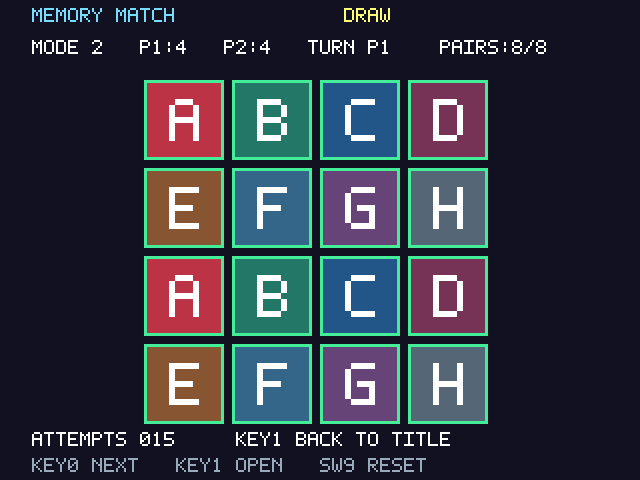
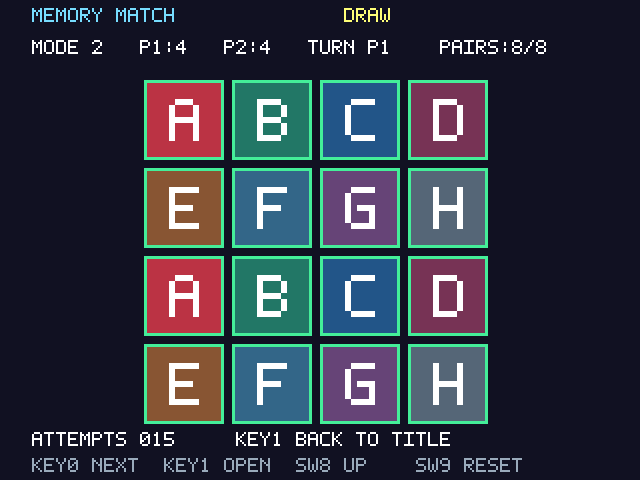
Show SW8 direction as UP or DOWN on screen
The controls line now reads "SW8 UP" or "SW8 DOWN" from the live switch,
carried to the renderer through a new reverse field in view_t. Fixed-width
text keeps "SW9 RESET" in place. Preview images regenerated.

Changed region(s): [[0.4688, 0.9375, 0.8125, 1.0], [0.25, 0.9375, 0.4375, 1.0]]

diff --git a/README.md b/README.md
@@ -25,6 +25,8 @@
 - `SW0=1`: สองคน เริ่มผู้เล่น 1 จับคู่ถูกได้ 1 คะแนนและเล่นต่อ ผิดจึงสลับผู้เล่น
 - `SW8=0`: KEY0 เลื่อนจากซ้ายไปขวา วนจากใบที่ 16 กลับไปใบที่ 1
 - `SW8=1`: KEY0 เลื่อนจากขวาไปซ้าย วนจากใบที่ 1 ไปใบที่ 16 เปลี่ยนได้ทันทีระหว่างเกม
+
+แถวล่างของจอแสดง `SW8 UP` (ซ้ายไปขวา) หรือ `SW8 DOWN` (ขวาไปซ้าย) ตามตำแหน่งสวิตช์ปัจจุบัน
 - `SW9=1`: รีเซ็ตเกม ค้างไว้เพื่อหยุดเกม ตั้งกลับเป็น 0 เพื่อพร้อมเล่น
 
 เปิดใบที่สองแล้วทั้งคู่จะแสดง 1 วินาที ก่อนตรวจว่าตรงกันหรือไม่ การ์ด A–H มีอย่างละสองใบ คู่ที่ถูกเปิดค้าง กรอบเหลืองคือใบที่กำลังเลือก กรอบเขียวคือคู่ที่สำเร็จ
